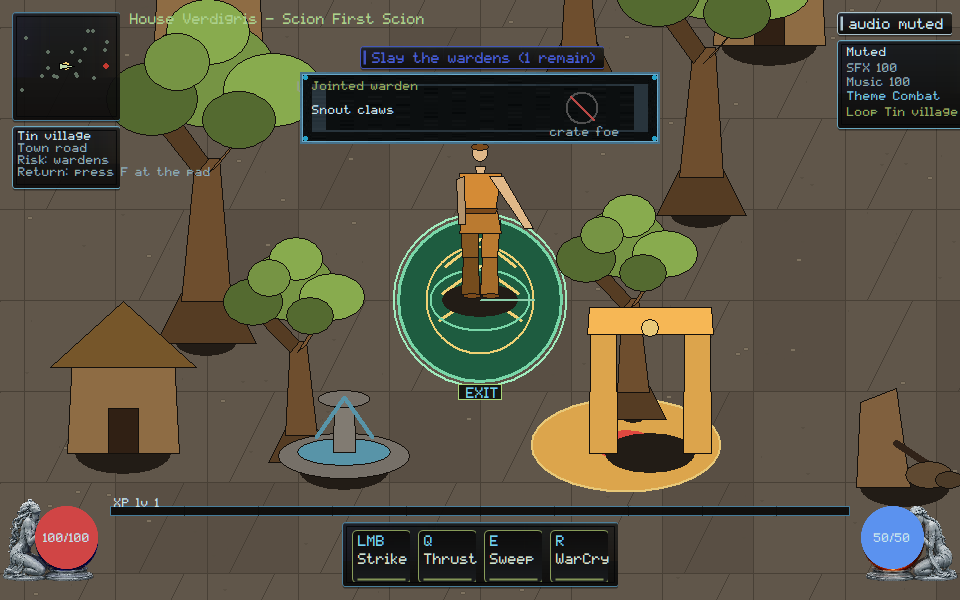
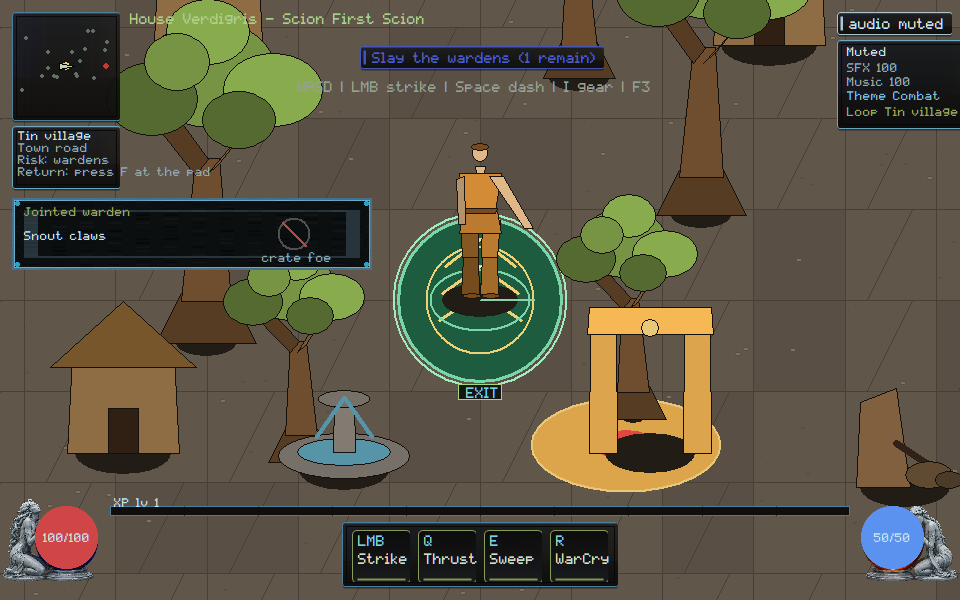
native: park Jointed warden off WASD and Tin village so covering combat HUD cannot certify

Changed region(s): [[0.0, 0.33, 0.4062, 0.45], [0.3125, 0.12, 0.6875, 0.24]]

diff --git a/native/client/main.cpp b/native/client/main.cpp
@@ -8400,8 +8400,12 @@ void paint_first_fight_review_strip(ClientState& state, HDC dc, const RECT& boun
   const int s = hud_scale(static_cast<int>(bounds.bottom));
   const int pane_w = 360 * s;
   const int pane_h = 72 * s;
-  const int left = (static_cast<int>(bounds.right) - pane_w) / 2;
-  const int top = 72 * s;
+  const HudRect parked =
+      park_review_strip(state, static_cast<int>(bounds.right),
+                        static_cast<int>(bounds.bottom), pane_w, pane_h);
+  const int left = parked.x;
+  const int top = parked.y;
+  state.hud_rect_trace.push_back({"first-fight-strip", parked});
   RECT pane{left, top, left + pane_w, top + pane_h};
   if (!draw_framekit_nine(state.billboards, dc, state.billboards.fk_panel, pane))
     skin::panel(dc, pane, skin::kVerdigris, 235, 8.0f);
@@ -11003,6 +11007,30 @@ int scenario_first_fight() {
   scenario_check(jointed && snout_claws,
                  "first-fight: live HUD names Jointed warden and Snout claws");
   scenario_check(crate_foe, "first-fight: live HUD rejects crate foe");
+  {
+    auto trace_find = [](const ClientState& s,
+                         const char* label) -> const HudRect* {
+      for (const auto& entry : s.hud_rect_trace)
+        if (entry.first == label) return &entry.second;
+      return nullptr;
+    };
+    const HudRect* strip = trace_find(state, "first-fight-strip");
+    const HudRect* ctrl = trace_find(state, "controls");
+    const HudRect* objective = trace_find(state, "objective");
+    const HudRect* route = trace_find(state, "route-card");
+    const HudRect* life = trace_find(state, "orb-life");
+    const bool covers =
+        (strip && ctrl && hud_rects_overlap(*strip, *ctrl)) ||
+        (strip && objective && hud_rects_overlap(*strip, *objective)) ||
+        (strip && route && hud_rects_overlap(*strip, *route)) ||
+        (strip && life && hud_rects_overlap(*strip, *life));
+    scenario_check(
+        vector_art::first_fight_strip_covers_hud_fails_review(true),
+        "first-fight: covering WASD, the objective, Tin village, or Life is the anti-pattern");
+    scenario_check(
+        !vector_art::first_fight_strip_covers_hud_fails_review(covers),
+        "first-fight: Jointed warden stays off WASD, the objective, Tin village, and Life");
+  }
 
   // TASK-0142: force the deterministic vector-kit path by releasing the PNG
   // plates, then re-present. This proves the no-assets fallback still draws

diff --git a/native/client/vector_art.hpp b/native/client/vector_art.hpp
@@ -468,6 +468,9 @@ inline bool crate_foe_fails_review(bool jointed_legs, bool snout,
 
 inline const char* owner_jointed_warden_label() { return "Jointed warden"; }
 inline const char* owner_snout_claws_label() { return "Snout claws"; }
+inline bool first_fight_strip_covers_hud_fails_review(bool overlap) {
+  return overlap;
+}
 inline const char* owner_hit_flash_label() { return "Hit flash"; }
 inline const char* owner_number_fade_label() { return "Number fade"; }
 inline bool juice_strip_covers_hud_fails_review(bool overlap) { return overlap; }

diff --git a/docs/execution/CROSSWALK.md b/docs/execution/CROSSWALK.md
@@ -41,7 +41,7 @@ Cursor evidence notes.
 | VG-UI-006 | extend | TASK-0145/0177 + 0190/0197/0201 — **do not duplicate** |
 | VG-UI-007 | extend | TASK-0159 INTEGRATED, 0118 READY, 0207; `hud-pane-readability` at 960/1366/3440 + tree/character keep-out + `hud-scale-floor` + live window; TASK-0159 folder capture cannot certify; clipped C or Esc closes cannot certify; clipped I or Esc closes gear footer cannot certify; clipped DEF/LVL cannot certify; VG-UI-006 Owner Demo not duplicated |
 | VG-UI-008 | new | XInput tick path + glyphs (`pad-path`); not mouse emulation |
-| VG-ART-001/002/004 | extend | TASK-0141 INTEGRATED — village kit + collision-proxy ops (`kit-chunk`); not artist-local collision |
+| VG-ART-001/002/004 | extend | TASK-0141 INTEGRATED — village kit + collision-proxy ops (`kit-chunk`); not artist-local collision; Jointed warden stays off WASD/objective/Tin village/Life |
 | VG-ART-003/006 | extend | TASK-0122 INTEGRATED; 0173/0174 READY; 0186/0187 BRIDGE_PREP — Cursor paints melee **poses** (VG-ART-003) and WarCry **weave labels** plus Phase A spawn/fade (VG-ART-006) without taking TASK-0173 models or re-speccing TASK-0108; Hit flash stays off WASD/objective/Tin village/Life |
 | VG-ART-005 | extend | TASK-0182 AUTO_RELEASE, 0184; `held-item` world attachment + `loot-to-bank` pickup-to-equip hold; paper-doll seat alone cannot pass; World hold / Unarmed first stay off WASD, the objective, Tin village, and Life |
 | VG-ART-007/008 | extend | TASK-0206/0205/0207 — Owner Demo, do not duplicate |
@@ -179,15 +179,16 @@ fails snapshot. Scenario `gpu-packets`. Evidence
 `docs/execution/evidence/VG-GPU-002.json`.
 VG-ART-001: in-game HUD names camera/proportion/palette/contrast. Owner
 strip paints Adult camera / Bronze palette. `first-fight` owner strip
-paints Jointed warden / Snout claws. `zoom-invariance` owner strip
-paints Uniform pan / Zoom lock. `move-and-camera` owner strip paints
-Kit lock / Same delta. An external concept-art token
-cannot substitute, a skeleton `art: PNG billboards loaded` chip cannot
-count as the composition sheet, a chibi (1/3) head cannot pass as
-adult, a crate foe cannot certify, a free tile cannot certify the
-camera contract, and a sliding kit cannot certify pan. Scenarios
-`visual-target` / `first-fight` / `zoom-invariance` / `move-and-camera`.
-Evidence `docs/execution/evidence/VG-ART-001.json`.
+paints Jointed warden / Snout claws and parks off WASD, the objective,
+Tin village, and Life. Covering those combat surfaces cannot certify.
+`zoom-invariance` owner strip paints Uniform pan / Zoom lock.
+`move-and-camera` owner strip paints Kit lock / Same delta. An external
+concept-art token cannot substitute, a skeleton `art: PNG billboards
+loaded` chip cannot count as the composition sheet, a chibi (1/3) head
+cannot pass as adult, a crate foe cannot certify, a free tile cannot
+certify the camera contract, and a sliding kit cannot certify pan.
+Scenarios `visual-target` / `first-fight` / `zoom-invariance` /
+`move-and-camera`. Evidence `docs/execution/evidence/VG-ART-001.json`.
 VG-ART-003: windup/active/recovery/cancel silhouettes on Strike poses.
 Idle still cannot certify the family. Frame count alone cannot pass.
 `combat-juice` owner strip paints Hit flash / Number fade and parks off

diff --git a/orchestration/CURSOR_KIMI_LANES.md b/orchestration/CURSOR_KIMI_LANES.md
@@ -1077,3 +1077,15 @@ Please move off that branch before taking a new native path.
   remain yours. GOV-002 still unstamped.
   Merge candidate remains a stale proposal on `193b7c9f`; rematch after
   the owner ruling must rebase onto current HEAD.
+
+## Cursor reply (2026-09-06, Jointed warden off WASD and Tin village)
+
+- **Lease:** `main.cpp` still **ACTIVE**. `remote_session.cpp` stays
+  **RELEASED**. Do not re-spec TASK-0108 core/wire (`3b929637`).
+- **Landed this push:** VG-ART-001/007 — Jointed warden parks off WASD,
+  the objective, Tin village, and Life. Covering those cannot certify.
+  Crate foe still rejected. Captures viewed. Not Owner Demo.
+- **Stay off** `native/client/main.cpp` and `docs/execution/**`. SEC/CORE
+  remain yours. GOV-002 still unstamped.
+  Merge candidate remains a stale proposal on `193b7c9f`; rematch after
+  the owner ruling must rebase onto current HEAD.

diff --git a/docs/execution/CROSSWALK_REGISTRY.md b/docs/execution/CROSSWALK_REGISTRY.md
@@ -127,7 +127,7 @@ not implemented here.
 | VG-GPU-006 | G3 | new | material-light |
 | VG-GPU-007 | G2 | new | gpu-capture + PNG R/B honesty; swapped still cannot certify |
 | VG-GPU-008 | G3 | new | gpu-recover |
-| VG-ART-001 | G1 | extend | visual-target in-game sheet; first-fight jointed warden; zoom-invariance uniform pan; move-and-camera kit lock |
+| VG-ART-001 | G1 | extend | visual-target in-game sheet; first-fight Jointed warden stays off WASD/objective/Tin village/Life; zoom-invariance uniform pan; move-and-camera kit lock |
 | VG-ART-002 | G2 | extend | bronze-stone family |
 | VG-ART-003 | G2 | extend | attack-poses; combat-juice Hit flash stays off WASD/objective/Tin village/Life; not TASK-0108 |
 | VG-ART-004 | G2 | extend | kit-chunk: hut, ruin, fountain, gate in spawn capture |

diff --git a/docs/rebuild/HANDOFF.md b/docs/rebuild/HANDOFF.md
@@ -1,5 +1,14 @@
 # Native reconstitution handoff
 
+## 2026-09-06 — Jointed warden off WASD and Tin village (Cursor)
+
+- VG-ART-001 / VG-UI-007: Jointed warden / Snout claws parks off WASD,
+  the objective, Tin village, and Life. Covering those combat surfaces
+  cannot certify. Crate foe still rejected. Owner Demo journeys not
+  duplicated.
+- Scenario `first-fight` PASS. Capture viewed. Not Owner Demo. Not
+  TASK-0108.
+
 ## 2026-09-06 — Risk wardens off WASD and Tin village (Cursor)
 
 - VG-UI-005 / VG-UI-007: Risk wardens parks off WASD, the objective, the
